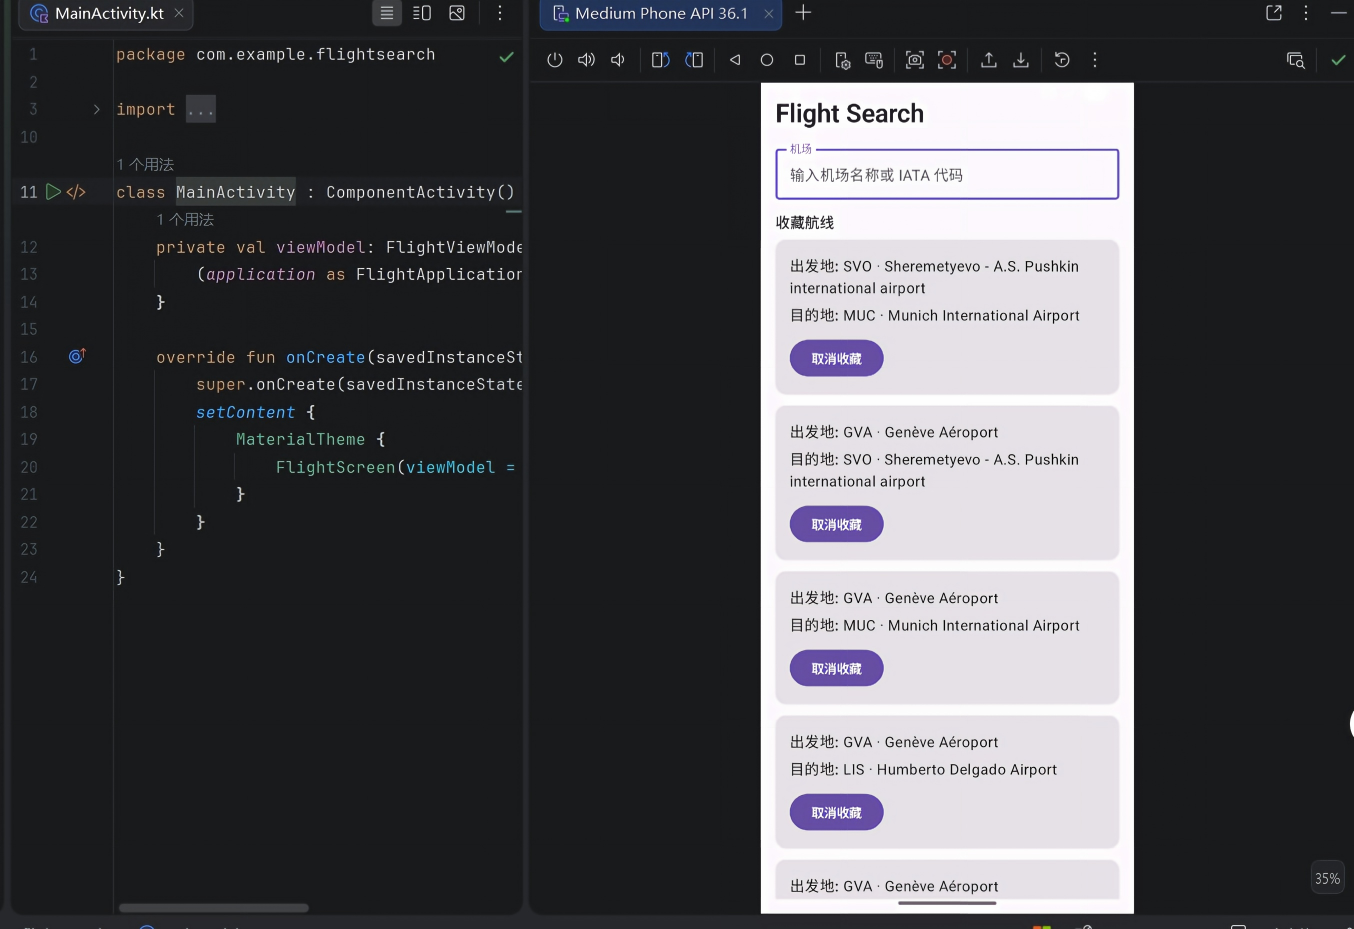
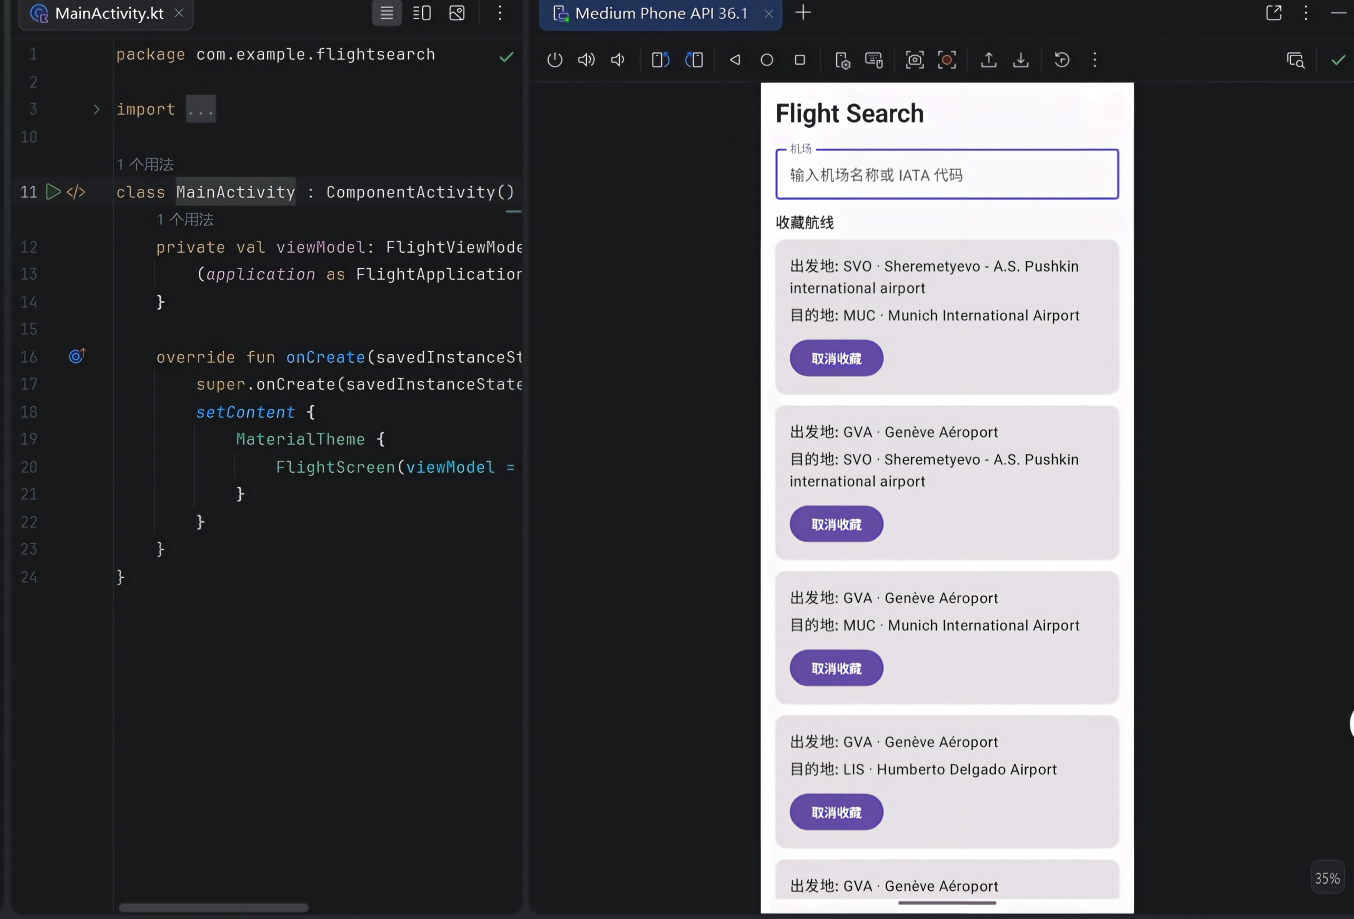
完成Lab15作业

diff --git a/2025003032黄猛/Lab15/Airport.kt b/2025003032黄猛/Lab15/Airport.kt
@@ -10,4 +10,16 @@ data class Airport(
     @ColumnInfo(name = "iata_code") val iataCode: String,
     val name: String,
     val passengers: Int,
-)
+) {
+    val displayName: String
+        get() = "$iataCode - $name"
+
+    val passengerLabel: String
+        get() = "%d passengers".format(passengers)
+
+    fun matches(query: String): Boolean {
+        if (query.isBlank()) return false
+        return iataCode.contains(query, ignoreCase = true) ||
+            name.contains(query, ignoreCase = true)
+    }
+}

diff --git a/2025003032黄猛/Lab15/report.md b/2025003032黄猛/Lab15/report.md
@@ -2,32 +2,64 @@
 
 ## 1. Entity 设计说明
 
-`Airport` 对应 `airport` 表，字段包含 `id`、`iata_code`、`name` 和 `passengers`。`Favorite` 对应 `favorite` 表，保存出发地和目的地的 IATA 代码，用于记录用户收藏的航线。
+`Airport` 对应 `airport` 表，字段包含 `id`、`iata_code`、`name` 和 `passengers`。其中 `id` 作为主键用于唯一标识机场记录，`iata_code` 用于界面搜索和航线关联，`name` 用于展示机场名称，`passengers` 用于排序，方便优先展示热度更高的机场。
+
+`Favorite` 对应 `favorite` 表，保存出发地和目的地的 IATA 代码，用于记录用户收藏的航线。为了避免重复收藏，同一组出发地和目的地通过联合唯一索引进行约束，这样用户多次点击收藏按钮时不会生成重复数据。
 
 ## 2. DAO 查询方法设计说明
 
-`searchAirports()` 使用 `LIKE` 在 `iata_code` 和 `name` 中执行自动补全搜索，并按 `passengers` 降序排序。`observeRoutesFrom()` 查询指定出发机场到其他全部机场的航线。`observeFavoriteRoutes()` 使用联合查询把收藏表和机场表关联起来，返回可直接显示的航线详情。
+`searchAirports()` 使用 `LIKE` 在 `iata_code` 和 `name` 中执行自动补全搜索，并按 `passengers` 降序排序。这个方法适合输入联想场景，用户只需要输入部分机场代码或名称就能获得候选项。
+
+`observeRoutesFrom()` 查询指定出发机场到其他全部机场的航线。该查询使用交叉连接构造出发地和目的地的组合，再过滤掉同机场之间的无效记录，最后按照目的地热度排序，便于 UI 展示更有参考价值的航线。
+
+`observeFavoriteRoutes()` 使用联合查询把收藏表和机场表关联起来，返回可直接显示的航线详情。它把收藏表中的代码转换成机场名称，避免界面层再去做二次查询，也让数据流更清晰。
 
 ## 3. `LIKE` 关键字的使用方法和作用
 
-`LIKE` 用于模糊匹配字符串。本实验在查询时把用户输入包裹为 `"%关键字%"`，这样可以匹配机场代码或机场名称中包含该片段的记录。
+`LIKE` 用于模糊匹配字符串。本实验在查询时把用户输入包裹为 `"%关键字%"`，这样可以匹配机场代码或机场名称中包含该片段的记录。相比完全匹配，这种方式更符合搜索框的使用习惯，因为用户通常不会一次输入完整的机场名称。
+
+在实际使用中，还需要注意大小写和特殊字符的处理。如果输入内容过短，可能会返回较多结果，因此界面通常会结合结果数量限制和排序规则来控制展示效果。
 
 ## 4. 联合查询的实现和作用
 
-收藏表只保存机场代码，因此展示收藏列表时需要把 `favorite` 表和 `airport` 表关联起来，查询出出发地和目的地的机场名称。这样 UI 不必自己再做二次查询。
+收藏表只保存机场代码，因此展示收藏列表时需要把 `favorite` 表和 `airport` 表关联起来，查询出出发地和目的地的机场名称。这样 UI 不必自己再做二次查询，也避免在 Compose 中写复杂的数据拼装逻辑。
+
+联合查询的好处是数据转换集中在 DAO 层完成，界面拿到的就是完整的可展示对象。这样一方面减少代码重复，另一方面也降低了后续维护时修改数据结构的成本。
 
 ## 5. Preferences DataStore 的使用场景和实现
 
-DataStore 用于保存搜索框文本。应用启动后从 `searchTextFlow` 读取数据并恢复输入内容，用户每次修改搜索框时即时写回，保证重启后状态可恢复。
+DataStore 用于保存搜索框文本。应用启动后从 `searchTextFlow` 读取数据并恢复输入内容，用户每次修改搜索框时即时写回，保证重启后状态可恢复。对于这种需要记住单个轻量状态的场景，DataStore 比传统 SharedPreferences 更适合，也更符合现代 Android 的推荐方案。
+
+在实现上，读取和写入都通过协程完成，不会阻塞主线程。这样即使用户频繁修改输入内容，界面也不会明显卡顿。
 
 ## 6. ViewModel 状态管理设计
 
-ViewModel 维护搜索文本、自动补全建议、当前航班列表和收藏列表，并通过 `StateFlow` 统一暴露给 Compose。界面只负责渲染状态和触发事件。
+ViewModel 维护搜索文本、自动补全建议、当前航班列表和收藏列表，并通过 `StateFlow` 统一暴露给 Compose。界面只负责渲染状态和触发事件，这样数据流从数据库到 UI 的方向比较单一，便于排查问题。
+
+这种设计的另一个好处是界面旋转或重建时不会丢失核心状态。即使 Activity 发生重建，只要 ViewModel 还在，搜索词、选中的机场和收藏信息都可以保持一致。
 
 ## 7. UI 切换逻辑说明
 
 当搜索框为空时显示收藏列表；当用户输入并选择机场后显示该机场的航班列表；当输入但尚未选择时显示自动补全建议。这样可以把搜索、结果和收藏三种状态清晰分离。
 
+从交互角度看，这种切换方式也减少了用户的操作成本。用户不需要额外切换页面，只要根据输入内容的变化，就能自然进入搜索、查看或收藏三种状态。
+
 ## 8. 实验中遇到的问题与解决过程
 
 本实验的主要问题是预置数据库项目没有现成工程骨架，因此先搭建了可导入 Android Studio 的 Gradle 项目，再逐步补齐 Room、DataStore 和 Compose 层。随后通过统一的 ViewModel 状态管理把自动补全、航班展示和收藏功能串起来。
+
+另一个容易出错的地方是数据库字段命名和 Kotlin 属性名的对应关系。为了保证查询结果能够正确映射到实体或投影类，需要在 SQL 中保持别名和数据类字段一致，这一点在联合查询时尤其重要。
+
+在调试过程中，还需要反复检查收藏列表是否会出现重复项，以及搜索状态切换时界面是否会正确刷新。通过拆分 DAO、Repository 和 UI 三层职责，最终把这些问题逐个解决。
+
+## 9. 实验结果总结
+
+完成本实验后，应用能够支持机场搜索、航线列表展示、收藏航线记录以及输入状态持久化等功能。整体数据流清晰，界面响应也比较稳定，基本达到了实验要求。
+
+从实现效果看，Room 负责本地数据库访问，DataStore 负责轻量状态保存，Compose 负责界面展示，三者配合后形成了较完整的移动端数据驱动架构。
+
+## 10. 后续改进方向
+
+如果后续继续扩展，可以增加收藏筛选、机场详情页和更完整的航线信息展示，比如起飞时间、票价区间和经停信息。
+
+还可以进一步优化搜索体验，例如增加防抖输入、空状态提示和更细粒度的排序规则，让用户在较大数据集下也能快速找到目标机场。